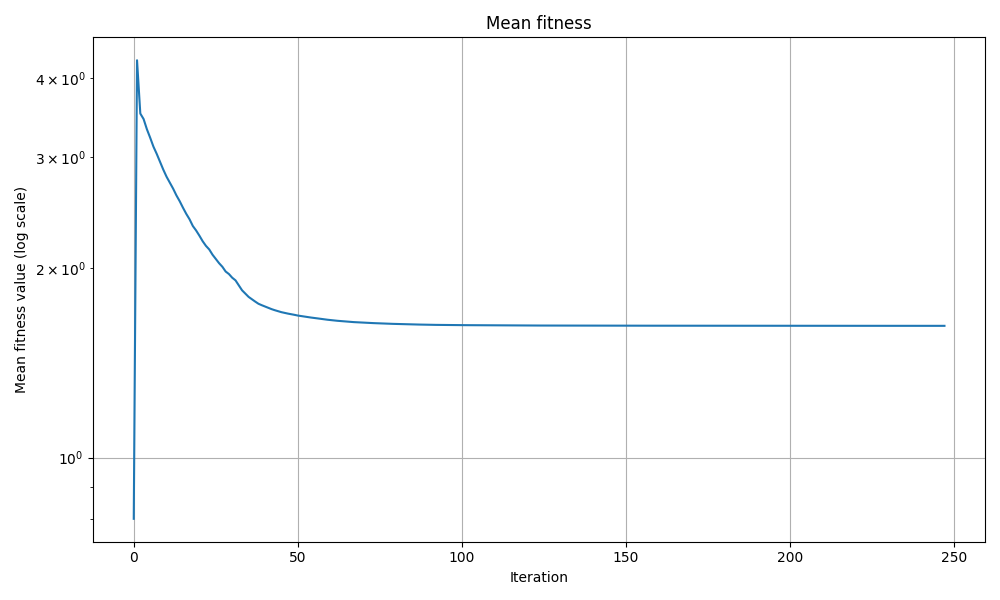
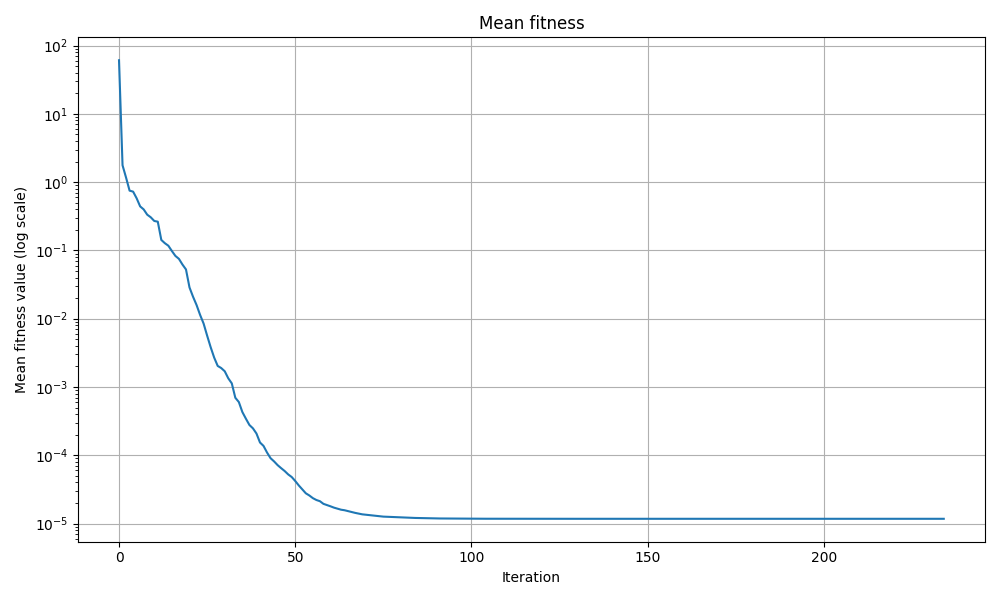
Add an inital point generator

diff --git a/des/utils/initial_point_generator.py b/des/utils/initial_point_generator.py
@@ -1,0 +1,138 @@
+from enum import Enum
+from dataclasses import dataclass, field
+import numpy as np
+from numpy.typing import NDArray
+
+
+class InitialPointGeneratorType(Enum):
+    """
+    Enum for different types of initial point generators.
+    """
+
+    NORMAL = "normal"
+    UNIFORM = "uniform"
+    CUSTOM = "custom"
+    ZERO = "zero"
+
+    def __str__(self):
+        return self.value
+
+
+@dataclass
+class InitialPointGenerator:
+    """
+    Base class for generating initial points for optimization algorithms.
+    """
+
+    dimensions: int
+    lower_bounds: int | float | NDArray[np.float64]
+    upper_bounds: int | float | NDArray[np.float64]
+    initial_point: NDArray[np.float64] | None = None
+    custom_std: NDArray[np.float64] | None = None
+    strategy: InitialPointGeneratorType = InitialPointGeneratorType.NORMAL
+
+    def __post_init__(self):
+        """Handle bound conversion after initialization."""
+        if isinstance(self.lower_bounds, (int, float)):
+            self.lower_bounds = np.full(self.dimensions, self.lower_bounds)
+        else:
+            self.lower_bounds = np.array(self.lower_bounds, dtype=float)
+
+        if isinstance(self.upper_bounds, (int, float)):
+            self.upper_bounds = np.full(self.dimensions, self.upper_bounds)
+        else:
+            self.upper_bounds = np.array(self.upper_bounds, dtype=float)
+
+    def generate(self) -> NDArray[np.float64]:
+        """
+        Generate an initial point.
+
+        Returns:
+            List of floats representing the initial point
+        """
+        match self.strategy:
+            case InitialPointGeneratorType.NORMAL:
+                return self._generate_normal()
+            case InitialPointGeneratorType.UNIFORM:
+                return self._generate_uniform()
+            case InitialPointGeneratorType.CUSTOM:
+                return self._generate_custom()
+            case InitialPointGeneratorType.ZERO:
+                return self._generate_zero()
+            case _:
+                raise ValueError(f"Unknown strategy: {self.strategy}")
+
+    def _generate_normal(self) -> NDArray[np.float64]:
+        """
+        Generate an initial point using a normal distribution.
+
+        This method uses the mean and standard deviation based on the bounds
+        and optionally custom mean and standard deviation if provided.
+
+        If initial_point is probided, it will be used as the mean of t he normal distribution.
+
+        Returns:
+            Array of floats sampled from a normal distribution
+        """
+        assert isinstance(self.lower_bounds, np.ndarray) and isinstance(
+            self.upper_bounds, np.ndarray
+        ), "Bounds must be numpy arrays"
+
+        if self.initial_point and len(self.initial_point) == self.dimensions:
+            mean = np.array(self.initial_point, dtype=np.float64)
+        else:
+            mean = np.array(
+                [
+                    (lower + upper) / 2
+                    for lower, upper in zip(self.lower_bounds, self.upper_bounds)
+                ]
+            )
+
+        if self.custom_std and len(self.custom_std) == self.dimensions:
+            std = np.array(self.custom_std, dtype=np.float64)
+        else:
+            # 6-sigma
+            std = np.array(
+                [
+                    (upper - lower) / 6
+                    for lower, upper in zip(self.lower_bounds, self.upper_bounds)
+                ]
+            )
+
+        point = np.random.normal(mean, std, size=self.dimensions)
+        return np.clip(point, self.lower_bounds, self.upper_bounds)
+
+    def _generate_uniform(self) -> NDArray[np.float64]:
+        """
+        Generate an initial point using a uniform distribution.
+
+        Returns:
+            Array of floats sampled uniformly from the bounds
+        """
+        return np.random.uniform(
+            self.lower_bounds, self.upper_bounds, size=self.dimensions
+        )
+
+    def _generate_custom(self) -> NDArray[np.float64]:
+        """
+        Generate an initial point using a custom predefined point.
+
+        Returns:
+            Array of floats from the predefined initial point
+        """
+        if not self.initial_point:
+            raise ValueError("Custom initial point not provided")
+        if len(self.initial_point) != self.dimensions:
+            raise ValueError(
+                f"Initial point length {len(self.initial_point)} does not match dimensions {self.dimensions}"
+            )
+        return np.array(self.initial_point, dtype=np.float64)
+
+    def _generate_zero(self) -> NDArray[np.float64]:
+        """
+        Generate an initial point with all zeros.
+
+        Returns:
+            Array of zeros
+        """
+        return np.zeros(self.dimensions, dtype=np.float64)

diff --git a/examples/simple_optimization.py b/examples/simple_optimization.py
@@ -4,27 +4,39 @@ from des import DESOptimizer
 from des.config import DESConfig
 from des.utils.boundary_handlers import BoundaryHandlerType
 from des.utils.benchmark_functions import Sphere, Rastrigin, Rosenbrock, CEC17Function
+from des.utils.initial_point_generator import (
+    InitialPointGenerator,
+    InitialPointGeneratorType,
+)
+
+import warnings
+
+warnings.filterwarnings("ignore", category=SyntaxWarning, module="opfunu")
 
 
 def run_optimization_example():
     """Run a simple optimization example."""
 
-    # Problem dimension
-    dimensions = 80
+    dimensions = 8
 
     # opt_func = CEC17Function(dimensions=dimensions, function_id=3)
     opt_func = Sphere(dimensions=dimensions)
+
     # Define bounds
     lower_bounds = -5.12
     upper_bounds = 5.12
 
-    # initial_point = np.zeros(dimensions)
-    initial_point = np.full(dimensions, 0.1, dtype=float)
-    # initial_point = np.random.uniform(lower_bounds, upper_bounds, size=dimensions)
-    # implement gen initial with pre listed strategies
+    initial_point_generator = InitialPointGenerator(
+        strategy=InitialPointGeneratorType.NORMAL,
+        dimensions=dimensions,
+        lower_bounds=lower_bounds,
+        upper_bounds=upper_bounds,
+    )
 
+    initial_point = initial_point_generator.generate()
     # Create a configuration object with custom settings
     config = DESConfig(dimensions=dimensions)
+
     # Set core parameters
     config.budget = 1000 * dimensions
     config.population_size = 4 * dimensions
@@ -37,7 +49,7 @@ def run_optimization_example():
     print(f"Dimensions: {dimensions}")
     print(f"Budget: {config.budget}")
     print(f"Population size: {config.population_size}")
-    print(f"Initial point value: {Sphere(dimensions)(initial_point):.20f}")
+    print(f"Initial point value: {opt_func(initial_point):.20f}")
 
     # Create and run optimizer
     optimizer = DESOptimizer(

diff --git a/des/des_optimizer.py b/des/des_optimizer.py
@@ -201,7 +201,11 @@ class DESOptimizer:
                 population=population,
                 best_fitness=best_fitness,
                 worst_fitness=worst_fitness,
-                eigen_values=np.sort(np.linalg.eigvals(np.cov(population)))[::-1],
+                eigen_values=np.sort(
+                    np.linalg.eigvals(
+                        np.cov(population)
+                    )  # pyright: ignore[reportArgumentType]
+                )[::-1],
             )
 
             # Select best mu individuals

diff --git a/des/utils/__init__.py b/des/utils/__init__.py
@@ -24,6 +24,11 @@ from des.utils.benchmark_functions import (
     Ackley,
 )
 
+from des.utils.initial_point_generator import (
+    InitialPointGenerator,
+    InitialPointGeneratorType,
+)
+
 __all__ = [
     "RingBuffer",
     "BoundaryHandler",
@@ -39,4 +44,6 @@ __all__ = [
     "Rosenbrock",
     "Schwefel",
     "Ackley",
+    "InitialPointGenerator",
+    "InitialPointGeneratorType",
 ]

diff --git a/des/utils/benchmark_functions.py b/des/utils/benchmark_functions.py
@@ -5,7 +5,7 @@ A collection of benchmark functions for testing optimization algorithms.
 import numpy as np
 from numpy.typing import NDArray
 
-from opfunu.cec_based import CecBenchmark, cec2017
+from opfunu.cec_based import cec2017
 
 
 class BenchmarkFunction:
